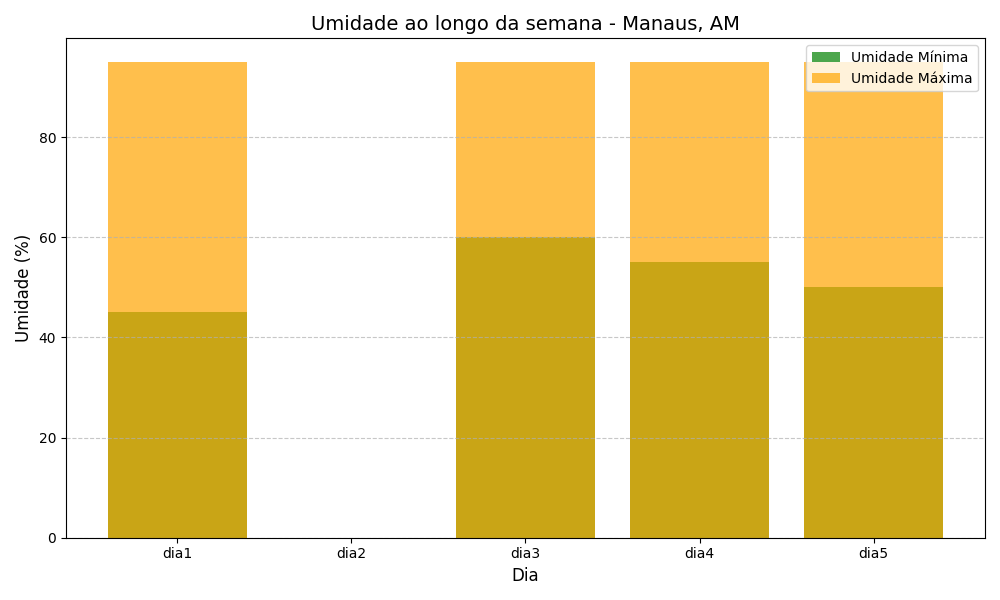
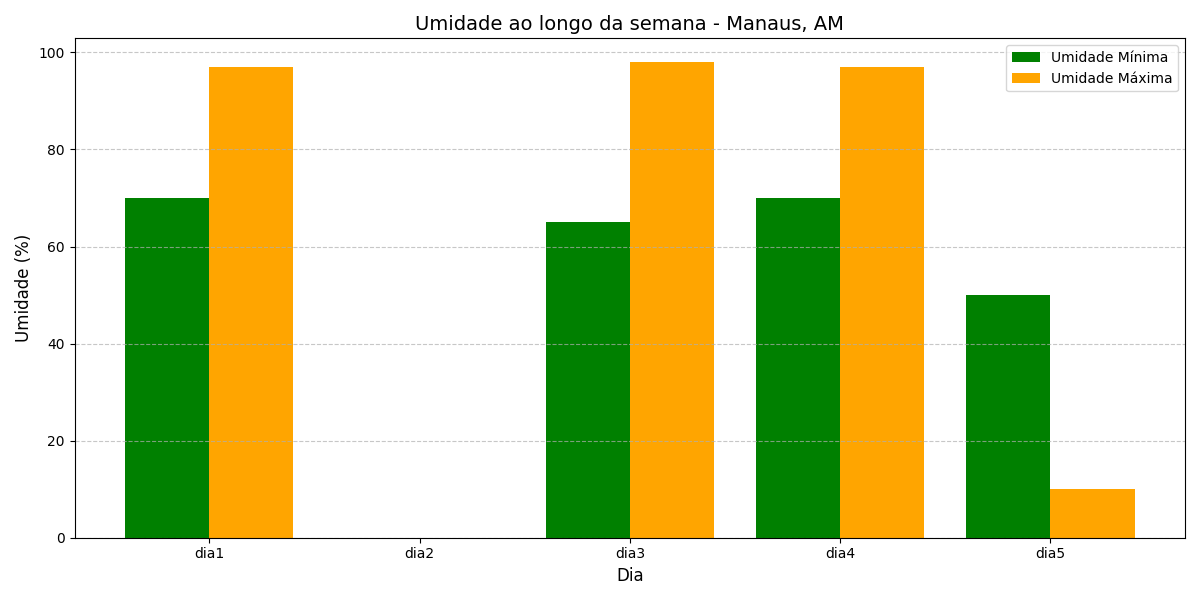
ajustes

diff --git a/bot.py b/bot.py
@@ -10,6 +10,7 @@ BotMaestroSDK.RAISE_NOT_CONNECTED = False
 from webdriver_manager.chrome import ChromeDriverManager
 import pandas as pd
 import matplotlib.pyplot as plt
+import numpy as np
 
 
 class Bot(WebBot):
@@ -131,25 +132,32 @@ class Bot(WebBot):
         print(df)
 
         # Grafico temp
-        plt.figure(figsize=(10, 6))
-        plt.bar(df['Dia'], df['Temperatura Mínima'], label='Temp. Mínima', color='blue', alpha=0.7)
-        plt.bar(df['Dia'], df['Temperatura Máxima'], label='Temp. Máxima', color='red', alpha=0.7)
+        largura_barras = 0.4  
+        x = np.arange(len(df['Dia']))  
+
+        plt.figure(figsize=(12, 6))
+        plt.bar(x - largura_barras / 2, df['Temperatura Mínima'], width=largura_barras, label='Temp. Mínima', color='blue')
+        plt.bar(x + largura_barras / 2, df['Temperatura Máxima'], width=largura_barras, label='Temp. Máxima', color='red')
+
         plt.title("Temperatura ao longo da semana - Manaus, AM", fontsize=14)
         plt.xlabel("Dia", fontsize=12)
         plt.ylabel("Temperatura (°C)", fontsize=12)
+        plt.xticks(x, df['Dia'], fontsize=10)  
         plt.legend()
         plt.grid(axis='y', linestyle='--', alpha=0.7)
         plt.tight_layout()
-        plt.savefig('resources/grafico_temperaturas.png')  
+        plt.savefig('resources/grafico_temperatura.png')  
         plt.show()
 
-        # Grafico umidade
-        plt.figure(figsize=(10, 6))
-        plt.bar(df['Dia'], df['Umidade Mínima'], label='Umidade Mínima', color='green', alpha=0.7)
-        plt.bar(df['Dia'], df['Umidade Máxima'], label='Umidade Máxima', color='orange', alpha=0.7)
+        # grafico umidade
+        plt.figure(figsize=(12, 6))
+        plt.bar(x - largura_barras / 2, df['Umidade Mínima'], width=largura_barras, label='Umidade Mínima', color='green')
+        plt.bar(x + largura_barras / 2, df['Umidade Máxima'], width=largura_barras, label='Umidade Máxima', color='orange')
+
         plt.title("Umidade ao longo da semana - Manaus, AM", fontsize=14)
         plt.xlabel("Dia", fontsize=12)
         plt.ylabel("Umidade (%)", fontsize=12)
+        plt.xticks(x, df['Dia'], fontsize=10)  
         plt.legend()
         plt.grid(axis='y', linestyle='--', alpha=0.7)
         plt.tight_layout()
